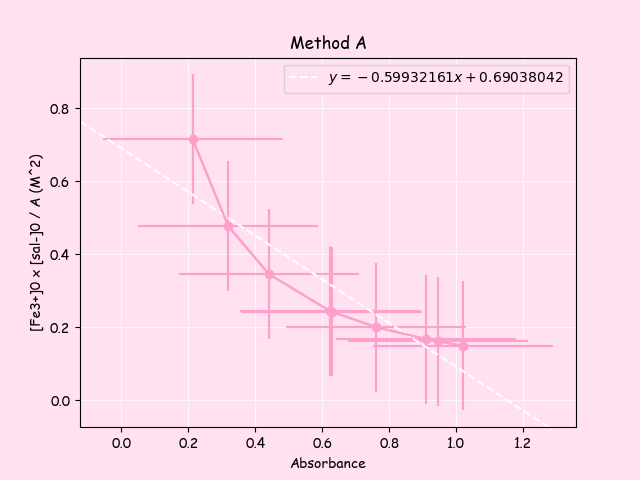
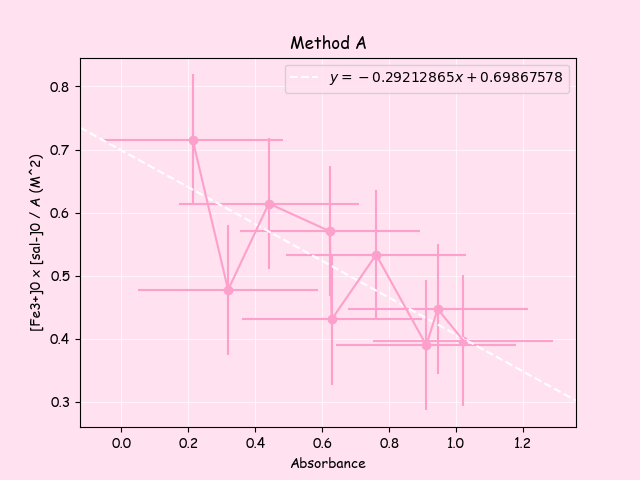
fuck

diff --git a/part2.py b/part2.py
@@ -250,7 +250,7 @@ x_data_4a = job_abs[1:-1] #remove abs data for zero conc
 yaxis_4a = []
 xaxis_4a = x_data_4a
 for concentration in conc_data_4a:
-    y4a = np.array([conc_data_4a[0] * (1.3 - conc_data_4a[0]) / x_data_4a[i]])
+    y4a = np.array([conc_data_4a[i] * (1.3 - conc_data_4a[i]) / x_data_4a[i]])
     yaxis_4a = np.append(yaxis_4a, y4a, axis = 0)
     i += 1
 #sort data
@@ -261,10 +261,10 @@ i = 0
 plt.rcParams["font.family"] = "Comic Sans MS"
 plt.rcParams['axes.facecolor'] = "#FFE1EF"
 plt.figure(facecolor="#FFE1EF")
-plt.plot(xaxis_4a, yaxis_4a, marker = 'o', color = "#fda0cc" )
+plt.scatter(xaxis_4a, yaxis_4a, marker = 'o', color = "#fda0cc" )
 xerra = np.std(xaxis_4a)
 yerra = np.std(yaxis_4a)
-plt.errorbar(xaxis_4a, yaxis_4a, xerr = xerra , yerr = yerra, color = "#fda0cc") 
+plt.errorbar(xaxis_4a, yaxis_4a, xerr = xerra , yerr = yerra, color = "#fda0cc") #this line fucked
 m, b, *_ = stats.linregress(xaxis_4a, yaxis_4a)
 plt.axline(xy1=(0, b), slope=m, label=f'$y = {m:.8f}x {b:+.8f}$', color = "w", linestyle = "--")
 plt.ylabel("[Fe3+]0 x [sal-]0 / A (M^2)")
